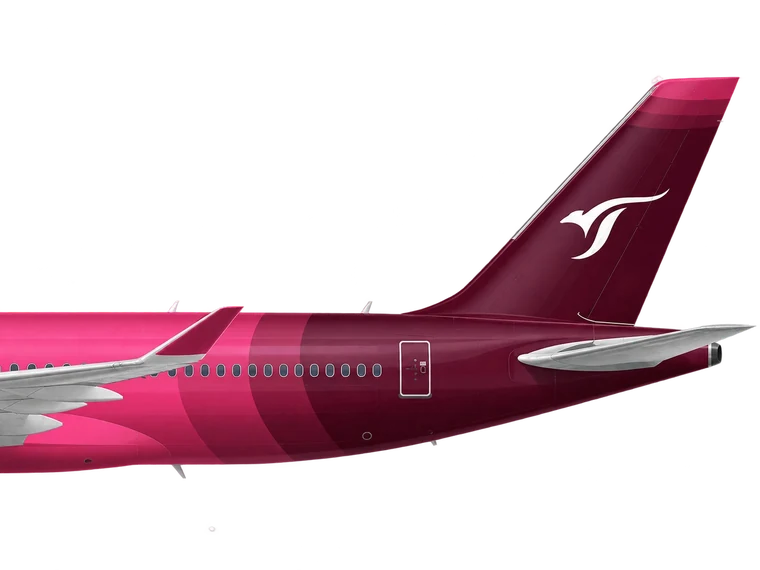
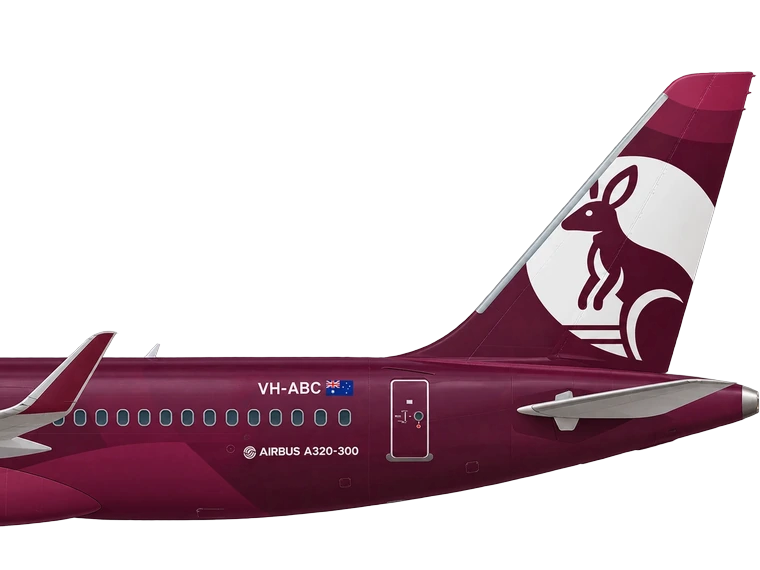
Update StrayaJet's livery
New maroon A320 artwork with the kangaroo roundel, framed to the wall's
760x570 like the rest. The brand colour moves with it, from the old
magenta #AE1457 to #70153A sampled off the new paint, which carries
through to the member card, the lounge finder and the hub explorer on
its own since it all reads from one field.

diff --git a/assets/js/data.js b/assets/js/data.js
@@ -148,7 +148,7 @@ const MEMBERS = [
   },
   {
     name:'StrayaJet', code:'SJ', country:'Australia',
-    color:'#AE1457', tail:'assets/img/members/strayajet.webp',
+    color:'#70153A', tail:'assets/img/members/strayajet.webp',
     hubs:['BNE','WLG','NOU','POM','MNL','CGK','HLP','KUL','HND','MLE',
           'HYD','MCT','RUH','SCL','GRU','JNB','SEZ','TNR'], focus:[], joined:2026,
     blurb:'An eighteen-base operation spanning the Pacific, Southeast Asia and ' +
